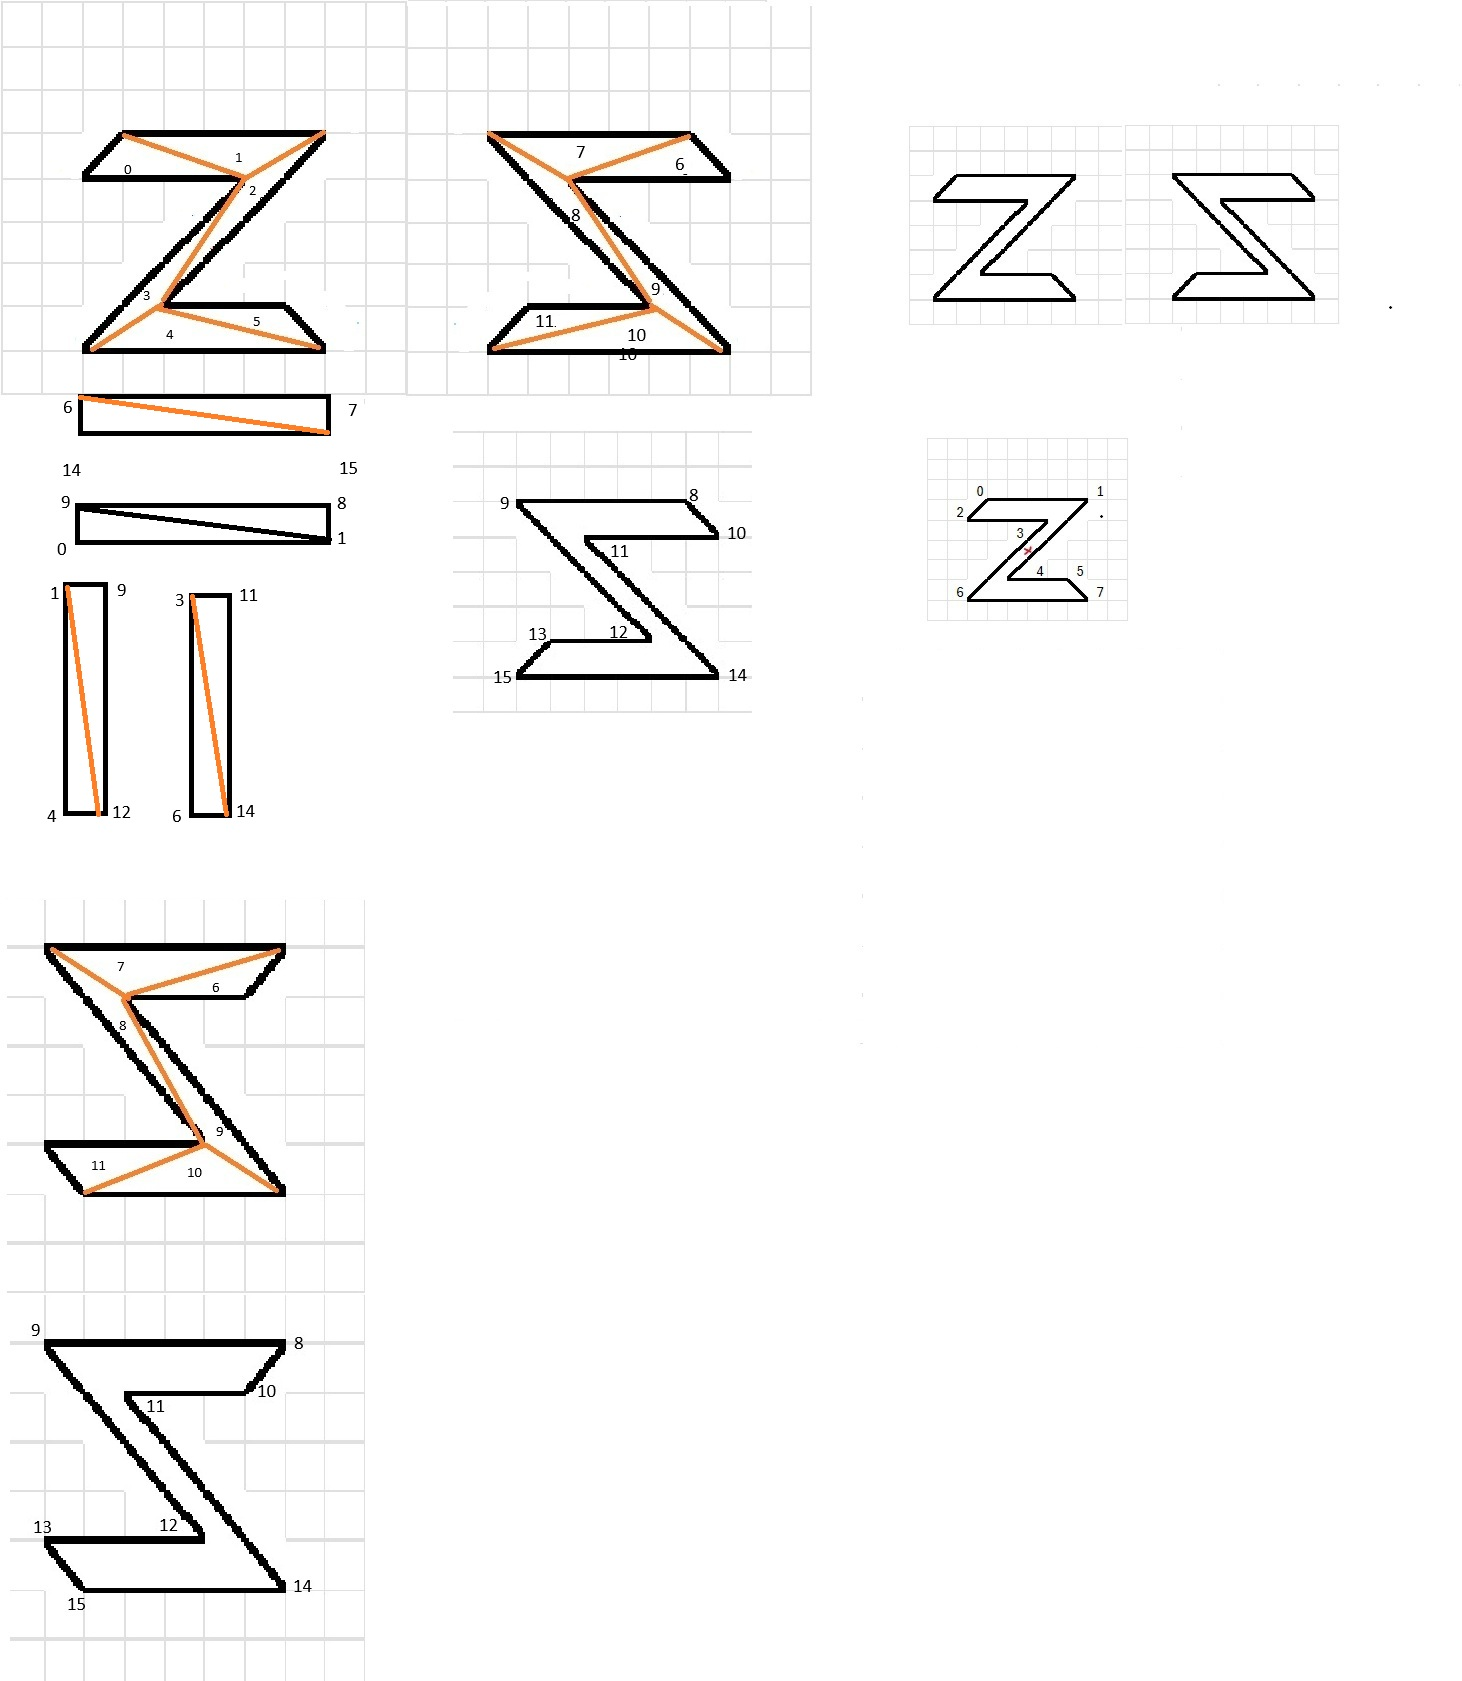
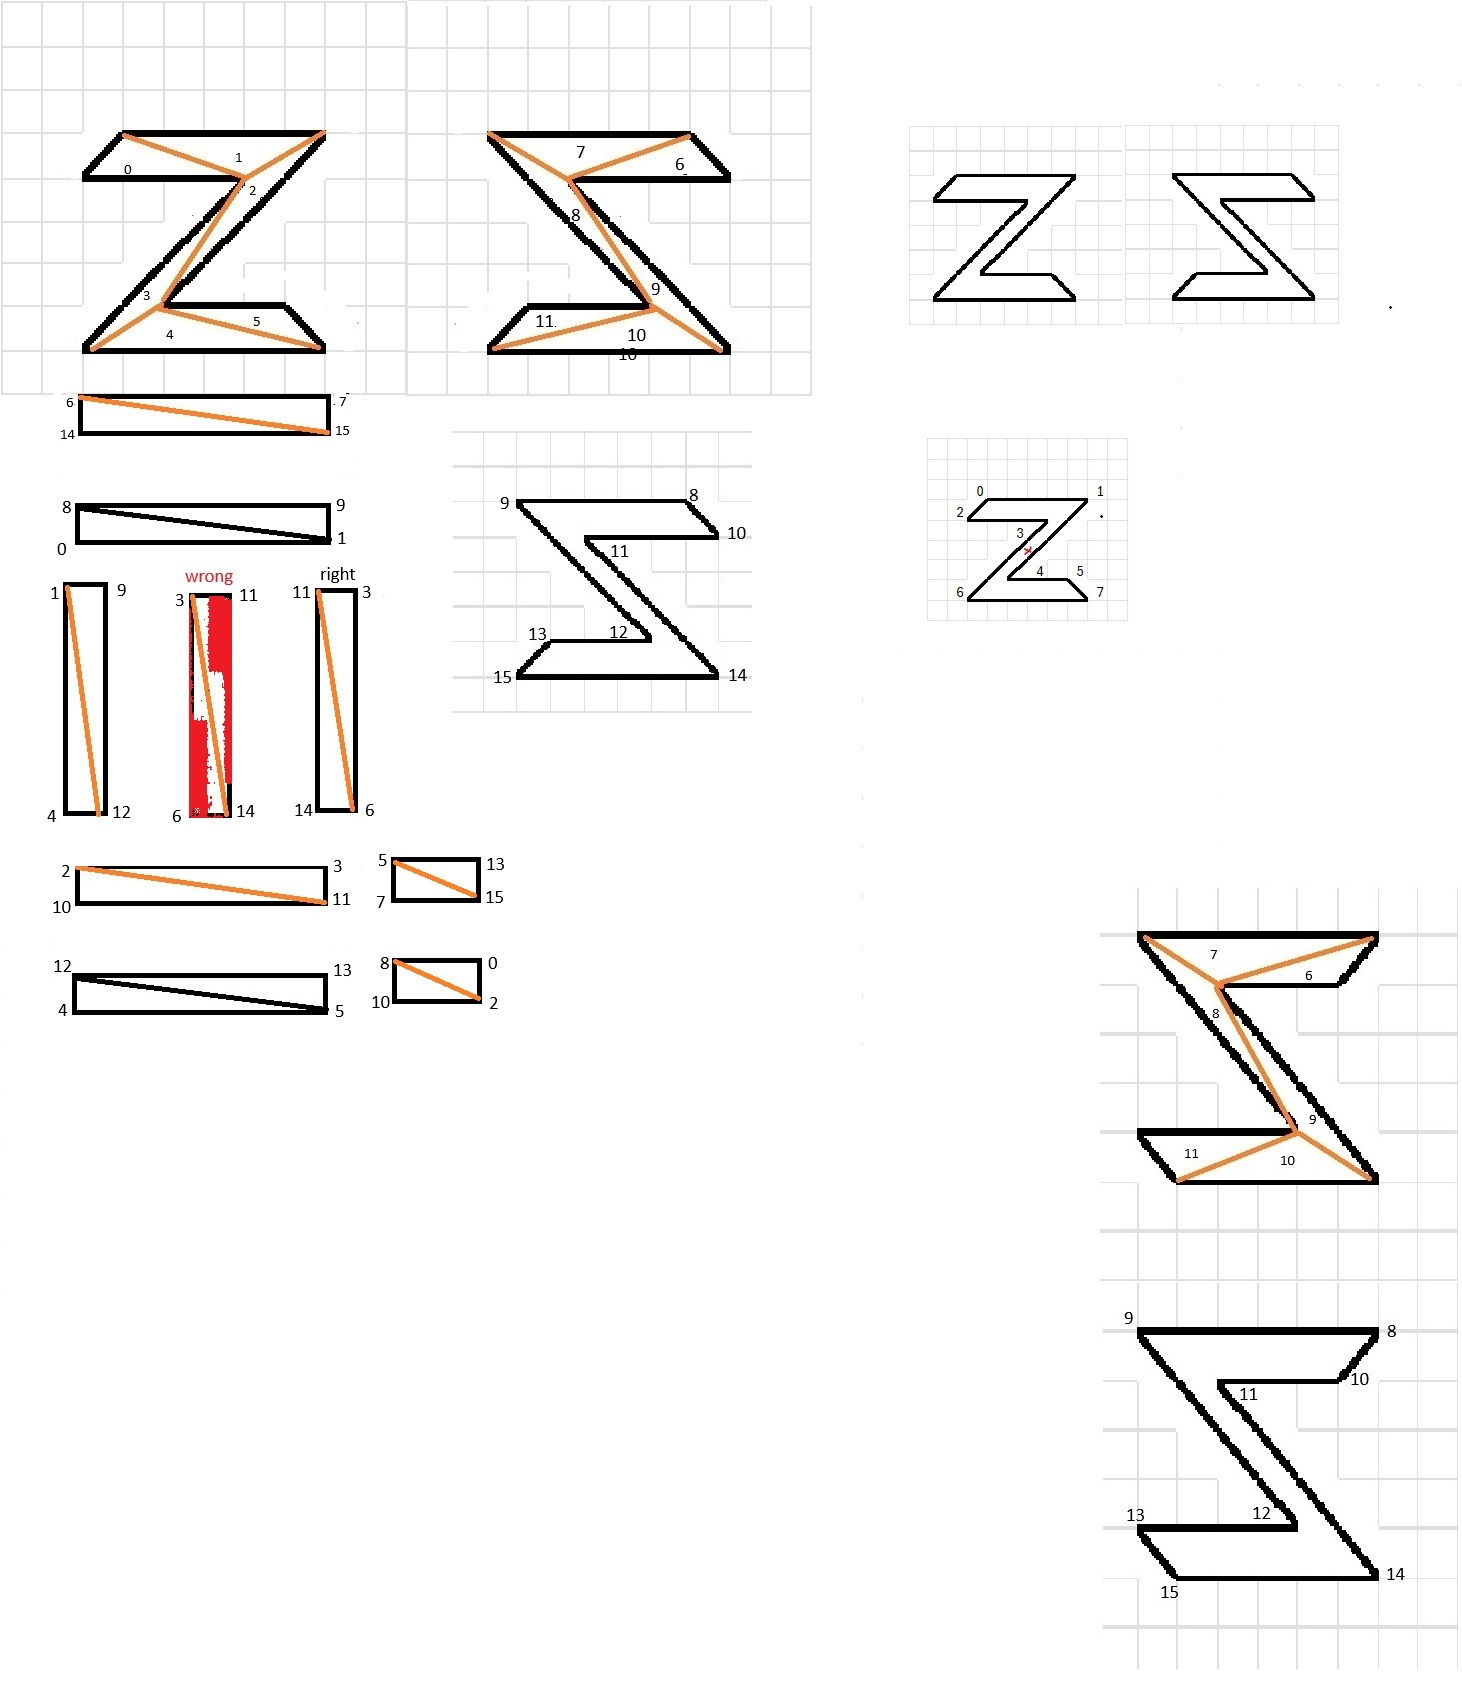
Signed-off-by: Student Rani Wheeza (TL_KCOMP_B_Y3) <t00244793@mymtu.ie>

diff --git a/Letter Model/Assets/Model.cs b/Letter Model/Assets/Model.cs
@@ -1,3 +1,4 @@
+using System;
 using System.Collections.Generic;
 using UnityEngine;
 
@@ -18,12 +19,20 @@ public class Model
         faces = new List<Vector3Int>();
         addfaces();
 
+        /*texture_coordinates = new List<Vector2>();
+        addTextureVertices();*/
+
     }
+
+    /*private void addTextureVertices()
+    {
+        texture_coordinates.Add(new Vector2(99, 108));
+    }*/
 
     private void addfaces()
     {
         //Front faces
-       faces.Add(new Vector3Int(0, 2, 3)); // 0
+       faces.Add(new Vector3Int(0, 2, 3)); //texture_index_list.Add(new Vector3Int());// 0
        faces.Add(new Vector3Int(0, 3, 1)); // 1
        faces.Add(new Vector3Int(1, 3, 4)); // 2
        faces.Add(new Vector3Int(3, 6, 4)); // 3
@@ -39,20 +48,36 @@ public class Model
         faces.Add(new Vector3Int(12, 13, 15)); // 11
 
         //Bottom Faces
-        faces.Add(new Vector3Int(6, 14, 15));
-        faces.Add(new Vector3Int(6, 15, 7));
+        faces.Add(new Vector3Int(6, 14, 15)); // 12
+        faces.Add(new Vector3Int(6, 15, 7)); // 13
 
         //Top Faces
-        faces.Add(new Vector3Int(9, 0, 1));
-        faces.Add(new Vector3Int(9, 1, 8));
+        faces.Add(new Vector3Int(0, 1, 8)); // 14
+        faces.Add(new Vector3Int(8, 1, 9));// 15
 
         //Side Back Face
-        faces.Add(new Vector3Int());
-        faces.Add(new Vector3Int());
+        faces.Add(new Vector3Int(1, 4, 12));//16
+        faces.Add(new Vector3Int(1, 12, 9));//17
 
         //Side Front Face
-        faces.Add(new Vector3Int());
-        faces.Add(new Vector3Int());
+        faces.Add(new Vector3Int(11, 14, 6));//18
+        faces.Add(new Vector3Int(11, 6, 3));//19
+
+        //Bottom cover Face
+        faces.Add(new Vector3Int(2, 10, 11));//20
+        faces.Add(new Vector3Int(2, 11, 3));//21
+
+        //Top cover Face
+        faces.Add(new Vector3Int(12, 4, 5));//22
+        faces.Add(new Vector3Int(12, 5, 13));//23
+
+        //Top Front Face
+        faces.Add(new Vector3Int(8, 10, 2));//24
+        faces.Add(new Vector3Int(8, 2, 0));//25
+
+        //Bottom Front Face
+        faces.Add(new Vector3Int(5, 7, 15));//26
+        faces.Add(new Vector3Int(5, 15, 13));//27
     }
 
     private void addvertices()
